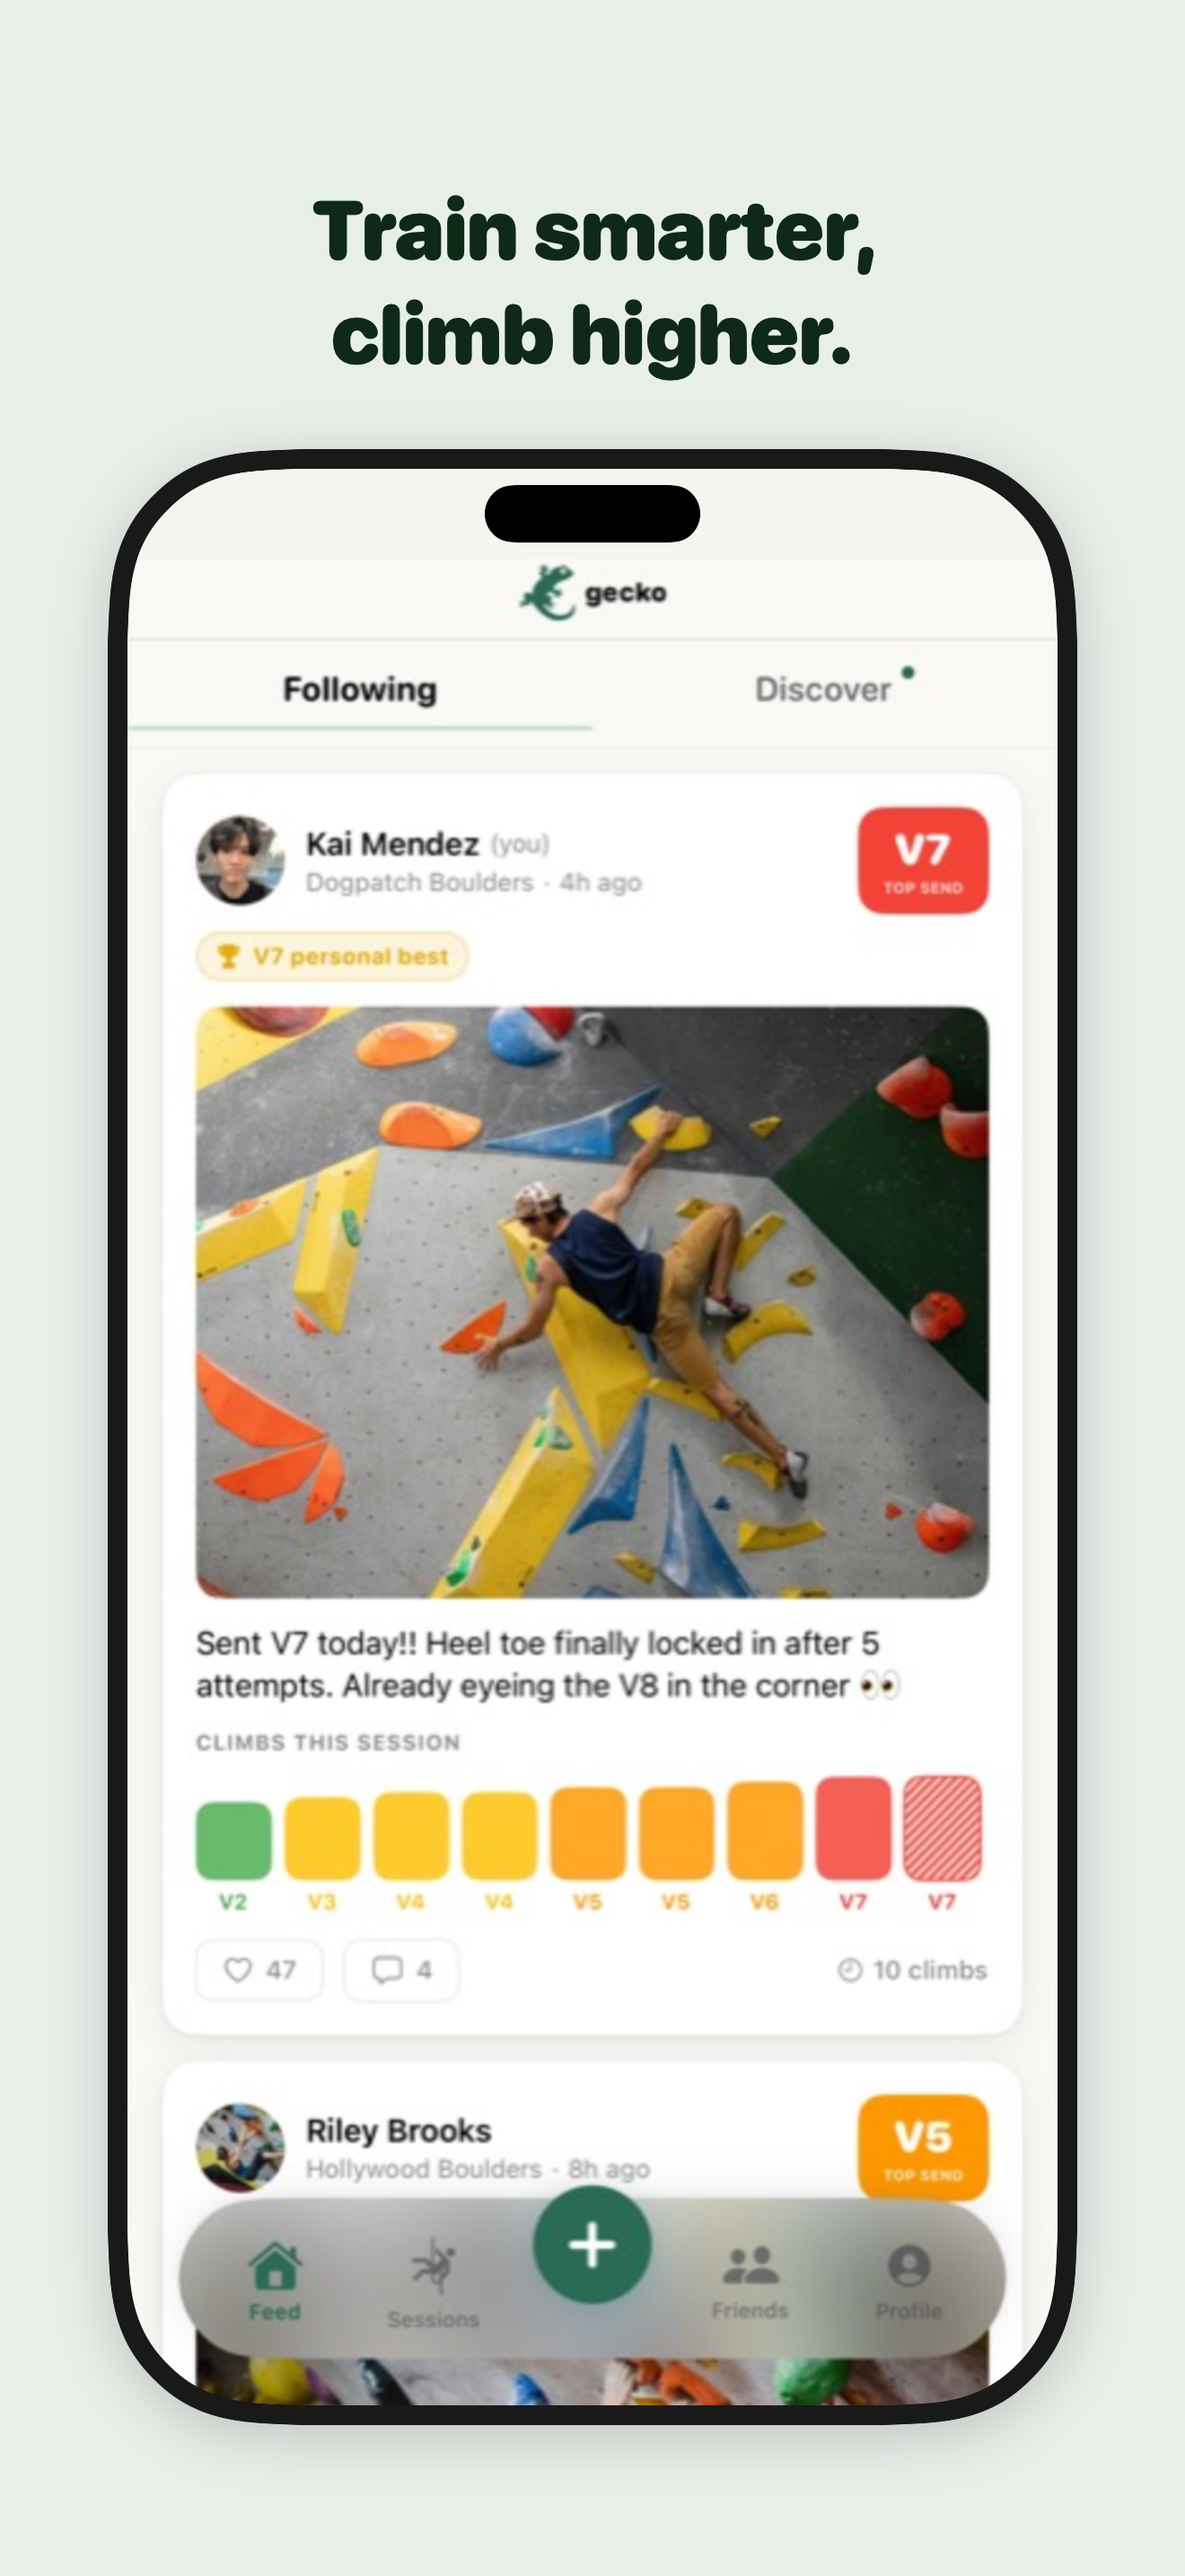
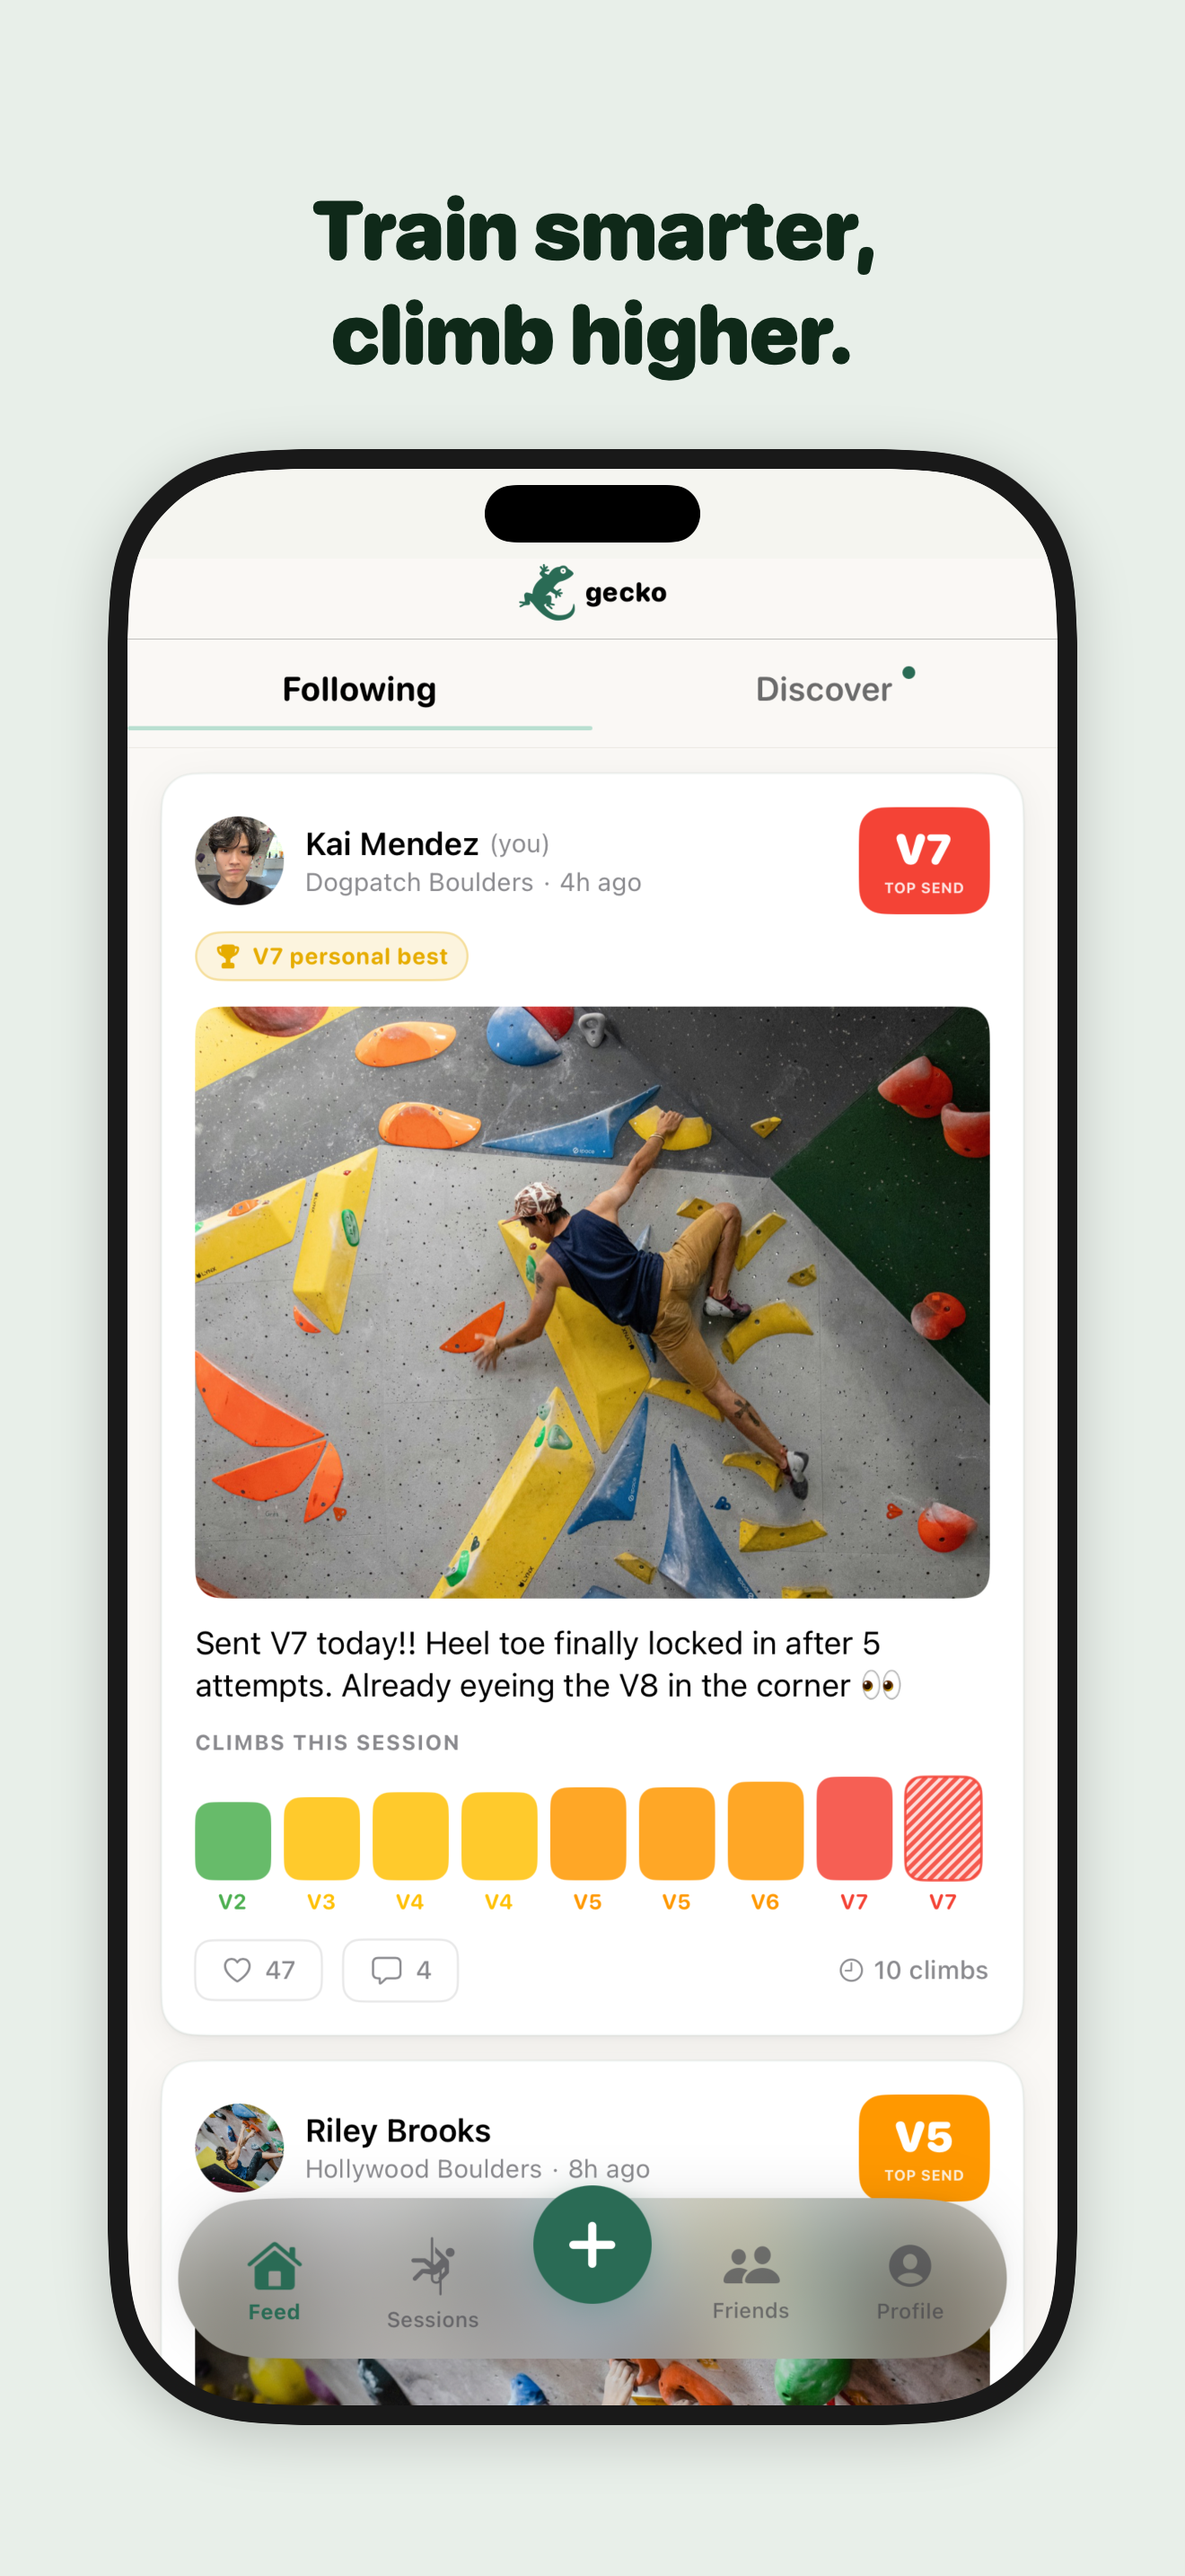
Recapture marketing inputs at native 1320x2868 for sharp output
XcodeBuildMCP's screenshot tool returns 368x800 "optimized" JPGs.
Composing those into a 1320x2868 canvas was upscaling by 2.8x —
the source of the blur in every marketing PNG.

Switched to xcrun simctl io directly, which returns the
simulator's native pixel buffer. Inputs are now PNGs at full
device resolution. The composer fills the iPhone screen area
without upscaling, so text, photos, and grade pills render at
1:1 fidelity in the final App Store deliverables.

diff --git a/scripts/generate_marketing.swift b/scripts/generate_marketing.swift
@@ -58,27 +58,27 @@ struct MarketingSpec {
 
 let specs: [MarketingSpec] = [
     MarketingSpec(
-        inputFilename: "01-flagship.jpg",
+        inputFilename: "01-flagship.png",
         outputFilename: "01-train-smarter.png",
         tagline: "Train smarter,\nclimb higher."
     ),
     MarketingSpec(
-        inputFilename: "02-sessions.jpg",
+        inputFilename: "02-sessions.png",
         outputFilename: "02-track-every-climb.png",
         tagline: "Track every climb,\nfrom V0 to project."
     ),
     MarketingSpec(
-        inputFilename: "03-stats.jpg",
+        inputFilename: "03-stats.png",
         outputFilename: "03-watch-progress.png",
         tagline: "Watch your progress\ntake shape."
     ),
     MarketingSpec(
-        inputFilename: "04-week-in-review.jpg",
+        inputFilename: "04-week-in-review.png",
         outputFilename: "04-week-recap.png",
         tagline: "Your week in\nclimbing, recapped."
     ),
     MarketingSpec(
-        inputFilename: "05-discover.jpg",
+        inputFilename: "05-discover.png",
         outputFilename: "05-crew-sending.png",
         tagline: "See what your crew\nis sending."
     )
@@ -208,7 +208,7 @@ func render(spec: MarketingSpec, inputDir: String, outputDir: String) {
 @MainActor
 func main() {
     let repoRoot = "/Users/amir/Desktop/Gecko Climbing"
-    let inputDir = "\(repoRoot)/docs/screenshots/marketing-input"
+    let inputDir = "\(repoRoot)/docs/screenshots/marketing-input-hires"
     let outputDir = "\(repoRoot)/docs/screenshots/marketing"
 
     try? FileManager.default.createDirectory(
